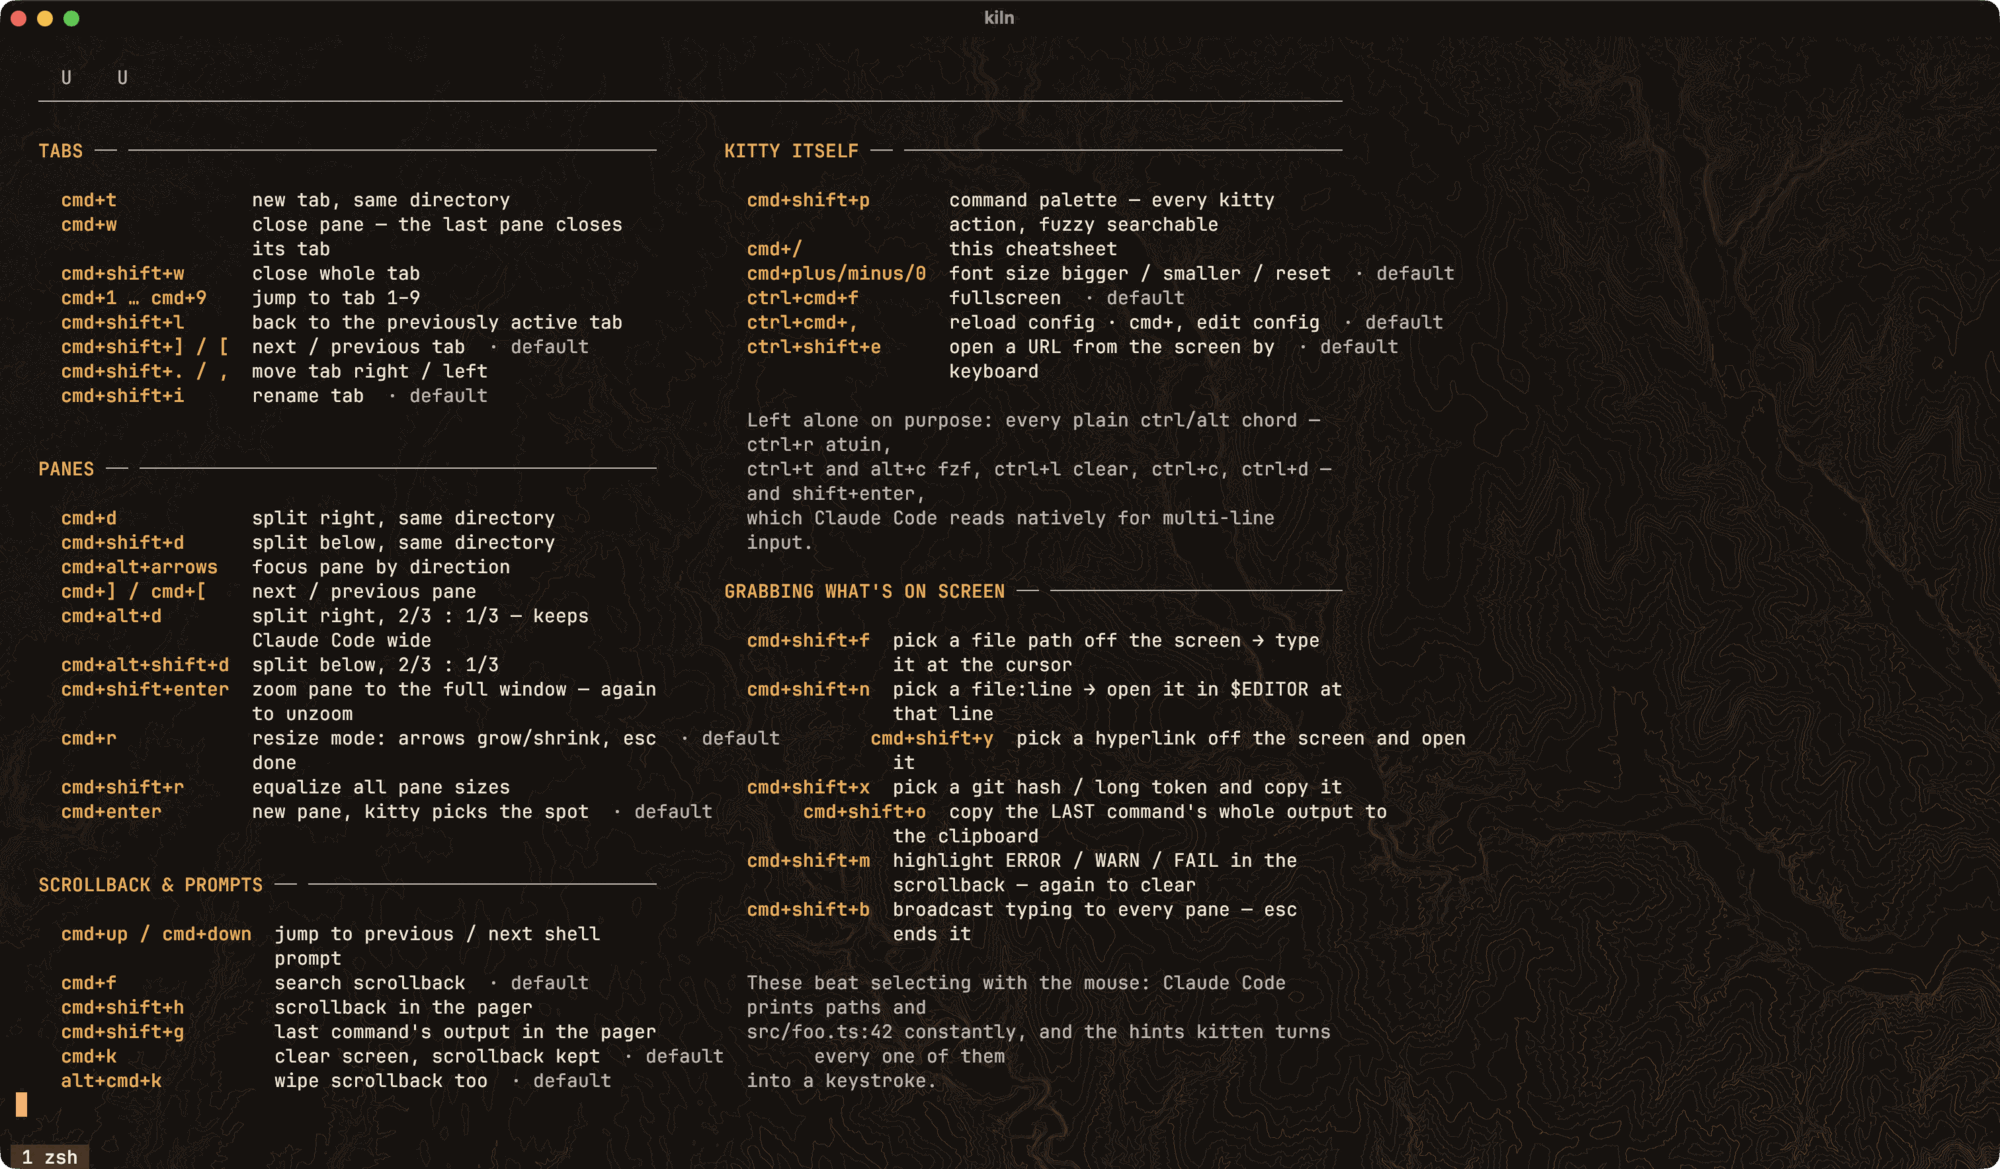
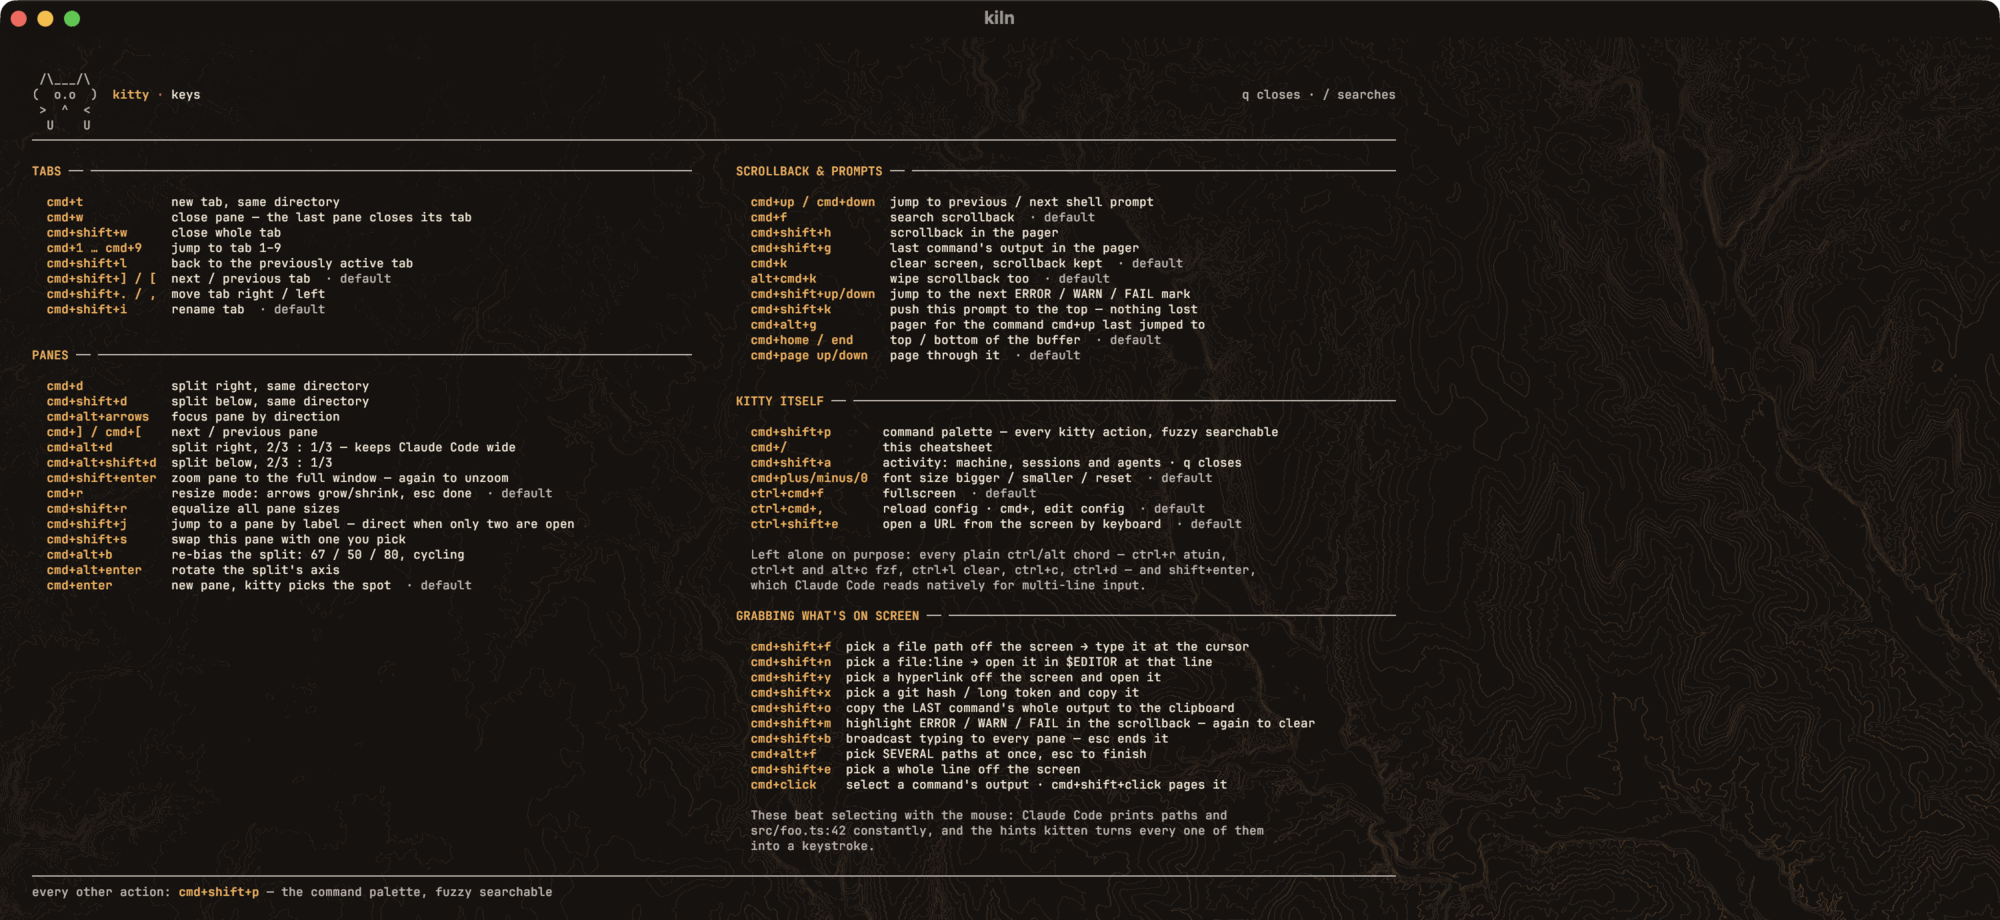
feat(kitty): ten navigation bindings, all verified against the action registry
Navigation only — nothing here touches the Claude Code side.

PANES
  cmd+shift+j   focus_visible_window: pick a pane by label. Earns a key at 2-4
                panes for a reason the man page states outright — with only TWO
                windows it skips the overlay and switches directly.
  cmd+shift+s   swap_with_window. The alternative was closing and recreating a
                pane, which is what confirm_os_window_close exists to prevent.
  cmd+alt+b     layout_action bias 67 50 80. --bias=33 was a creation-time
                decision that could not be revisited; this makes it a keypress
                from inside the Claude pane.
  cmd+alt+enter layout_action rotate.

SCROLLBACK
  cmd+shift+up/down  scroll_to_mark prev/next — THE MISSING HALF OF cmd+shift+m.
                That binding painted every error/warn/fail across 20,000 lines
                and then gave no way to reach one. Inert while the marker is
                off, which this config's own policy calls a defect shape, so the
                cheatsheet row says as much.
  cmd+shift+k   scroll_prompt_to_top y. cmd+k's non-destructive cousin; the `y`
                is load-bearing, bare form pushes the lines INTO scrollback.
  cmd+alt+g     pager on @last_visited_cmd_output — the output of the command
                cmd+up jumped to, not merely the last one. Biggest single win
                for making a 20k buffer navigable.

GRABBING
[…]

diff --git a/README.md b/README.md
@@ -101,13 +101,23 @@ drift.
 ![The cmd+/ overlay: tabs, panes, scrollback and screen grabbing, each row
 next to the binding that produces it](docs/media/02-keys.png)
 
-The two worth calling out for Claude Code work:
+Five worth calling out for Claude Code work:
 
 * **`cmd+alt+d`** splits 2/3 : 1/3 instead of 50/50. Claude Code truncates
   rows rather than wrapping them; an even split of a 165-column window gives
   81 columns a side and starts cutting output. Biased, 108 and 54.
 * **`cmd+shift+o`** copies the last command's entire output to the clipboard.
   The one to reach for after a build fails and Claude wants the log.
+* **`cmd+alt+g`** pages the output of the command `cmd+up` last jumped to.
+  `cmd+shift+g` can only ever give the *last* command; this gives the one you
+  walked back to. Walk back three builds, open that build's output alone.
+* **`cmd+shift+up` / `cmd+shift+down`** jump between the `error` / `warn` /
+  `fail` marks `cmd+shift+m` paints. That binding highlighted them across
+  20,000 lines and then gave no way to reach one — you still scrolled looking
+  for colour. These are the missing half of it, and they are inert while the
+  marker is off.
+* **`cmd+shift+j`** picks a pane by label — and with only two panes open it
+  skips the overlay and switches directly, so it is a zero-thought toggle.
 
 `shift+enter` is deliberately **not** mapped: a `send_text` map would hand the
 app a bare `\n`, which many TUIs read as submit.
